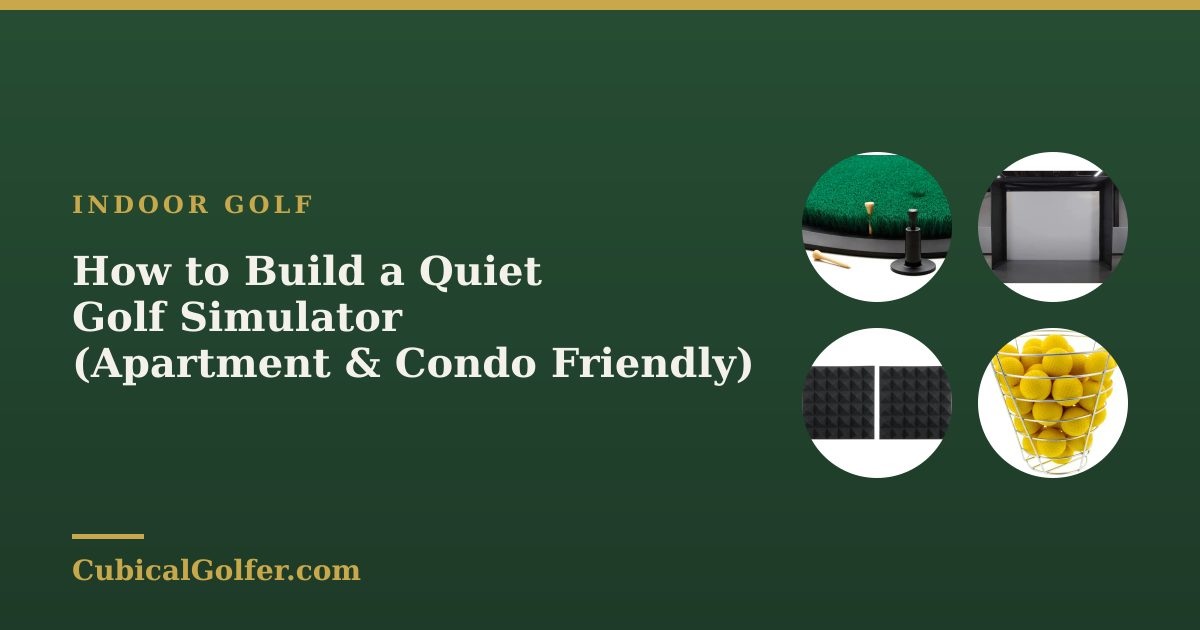
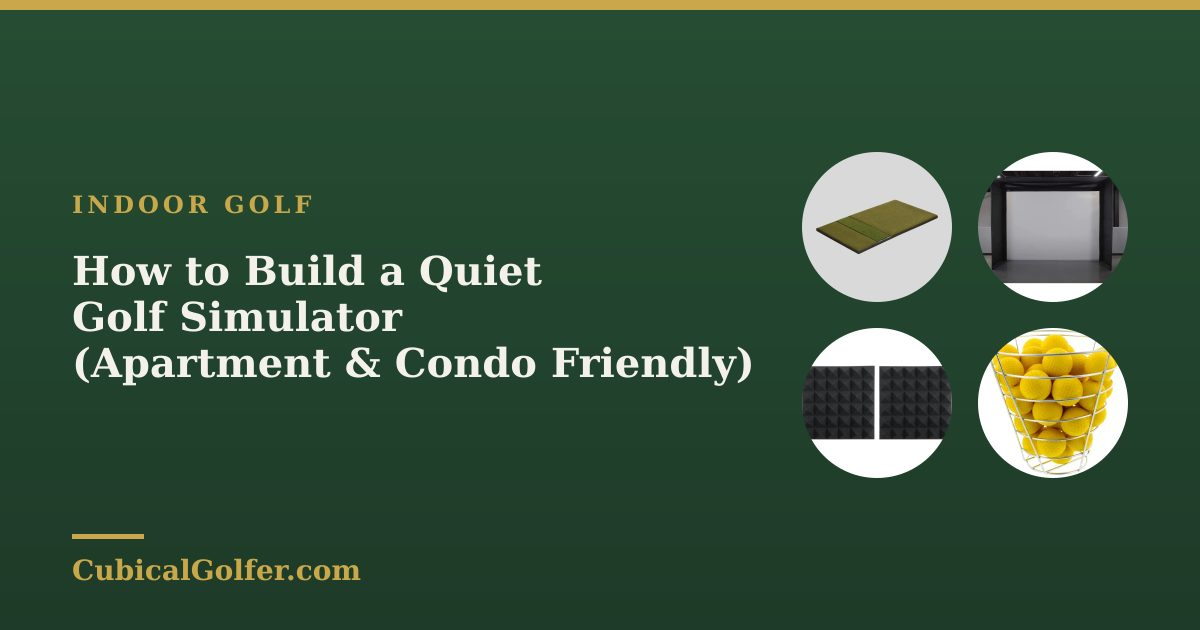
Add files via upload

Changed region(s): [[0.6475, 0.2413, 0.8017, 0.4825]]

diff --git a/src/data/affiliate-links.ts b/src/data/affiliate-links.ts
@@ -3474,14 +3474,10 @@ export const AFFILIATE: Record<string, {
     program: 'amazon',
     commissionPct: 3,
     cookieDays: 1,
-    retailer: 'Amazon', price: '~$499',
+    retailer: 'Amazon', price: '~$99',
     priceNote: 'Price is typical for this category. Check link for any current promotions.', label: 'Check Price at Amazon →',
-    imgSrc: '/images/products/fiberbuilt-flight-deck.webp', imgAlt: 'Fiberbuilt Flight Deck golf hitting mat',
-    benefits: [
-      'Most realistic turf feel tested',
-      'Floating surface protects joints',
-      'Replaceable hitting strip ($59)',
-    ],
+    imgSrc: '/images/products/fiberbuilt-flight-deck.webp', imgAlt: 'Fiberbuilt Flight Deck oval golf hitting mat with adjustable tee',
+    benefits: ['Genuine Fiberbuilt Grass turf in a stowable 21 x 13 in oval', 'Adjustable-height tee built in for driver through wedge', 'Backed by the same 300,000-shot guarantee as the big mats'],
   },
   'country-club-elite-mat': {
     url: 'https://www.amazon.com/s?k=country-club-elite-mat&crid=21C3SD5QAJ9AW&sprefix=country-club-elite-mat%2Caps%2C225&linkCode=ll2&tag=cubicalgolfer-20&linkId=3af1d6fae812d0f903cd0b1fe762f342&language=en_US&ref_=as_li_ss_tl',
@@ -3531,14 +3527,14 @@ export const AFFILIATE: Record<string, {
     priceNote: 'Simulator gear drops 10-20% during Black Friday. Big investment — worth waiting for sales.', label: 'Check Price at Amazon →',
     imgSrc: '/images/products/benq-th671st-projector.webp', imgAlt: 'BenQ TH671ST short throw projector for golf simulator',
       },
-  'optoma-gt1090hdr': {
-    url: 'https://www.amazon.com/s?k=optoma-gt1090hdr&crid=1VNFYPQ5VDU7C&sprefix=office-putting-mat%2Caps%2C243&linkCode=ll2&tag=cubicalgolfer-20&linkId=639dfb73d7ccb2f941516b2f20948f2d&language=en_US&ref_=as_li_ss_tl',
+  'optoma-gt2000hdr': {
+    url: 'https://www.amazon.com/Optoma-GT2000HDR-Compact-Theater-Projector/dp/B0C5BBCXRK?linkCode=ll1&tag=cubicalgolfer-20&language=en_US&ref_=as_li_ss_tl',
     program: 'amazon',
     commissionPct: 3,
     cookieDays: 1,
-    retailer: 'Amazon', price: '~$1,099',
+    retailer: 'Amazon', price: '~$1,199',
     priceNote: 'Price is typical for this category. Check link for any current promotions.', label: 'Check Price at Amazon →',
-    imgSrc: '/images/products/optoma-gt1090hdr.webp', imgAlt: 'Optoma GT1090HDR short throw projector',
+    imgSrc: '/images/products/optoma-gt1090hdr.webp', imgAlt: 'Optoma GT2000HDR short throw golf simulator projector',
       },
   'bag-boy-volt-electric': {
     url: 'https://www.amazon.com/s?k=bag-boy-volt-electric&crid=16LMO50A5SS3M&sprefix=bag-boy-volt-electric%2Caps%2C272&linkCode=ll2&tag=cubicalgolfer-20&linkId=e256e146c00315a9bbb8ace4d22a072c&language=en_US&ref_=as_li_ss_tl',

diff --git a/src/data/product-names.ts b/src/data/product-names.ts
@@ -196,7 +196,7 @@ export const PRODUCT_DISPLAY: Record<string, string> = {
   'carls-place-impact-screen': "Carl's Place Impact Screen",
   'homecourse-retractable-screen': "HomeCourse Retractable Screen",
   'benq-th671st-projector': "BenQ TH671ST Projector",
-  'optoma-gt1090hdr': "Optoma GT1090HDR",
+  'optoma-gt2000hdr': "Optoma GT2000HDR",
   'bag-boy-volt-electric': "Bag Boy Volt Electric",
   'mgi-zip-navigator': "MGI Zip Navigator",
   'sun-mountain-25-bag': "Sun Mountain 25 Bag",

diff --git a/scripts/validate-table-vs-registry.ts b/scripts/validate-table-vs-registry.ts
@@ -31,7 +31,7 @@ import { AFFILIATE } from '../src/data/affiliate-links';
 import { ARTICLES } from '../src/data/articles';
 import { COMPARISONS } from '../src/data/comparisons';
 
-const THRESHOLD = 117;
+const THRESHOLD = 114;
 const SEVERE_CEILING = 4;
 
 const money = (s: string) => Number(s.replace(/,/g, ''));

diff --git a/scripts/validate-prose-prices.ts b/scripts/validate-prose-prices.ts
@@ -37,7 +37,7 @@ import path from 'path';
  * saying $2,999, and the pages were right. Assuming the registry wins would
  * have made 78 correct statements wrong.
  */
-const THRESHOLD = 10;
+const THRESHOLD = 8;
 
 const money = (s: string) => Number(s.replace(/[$,]/g, ''));
 
